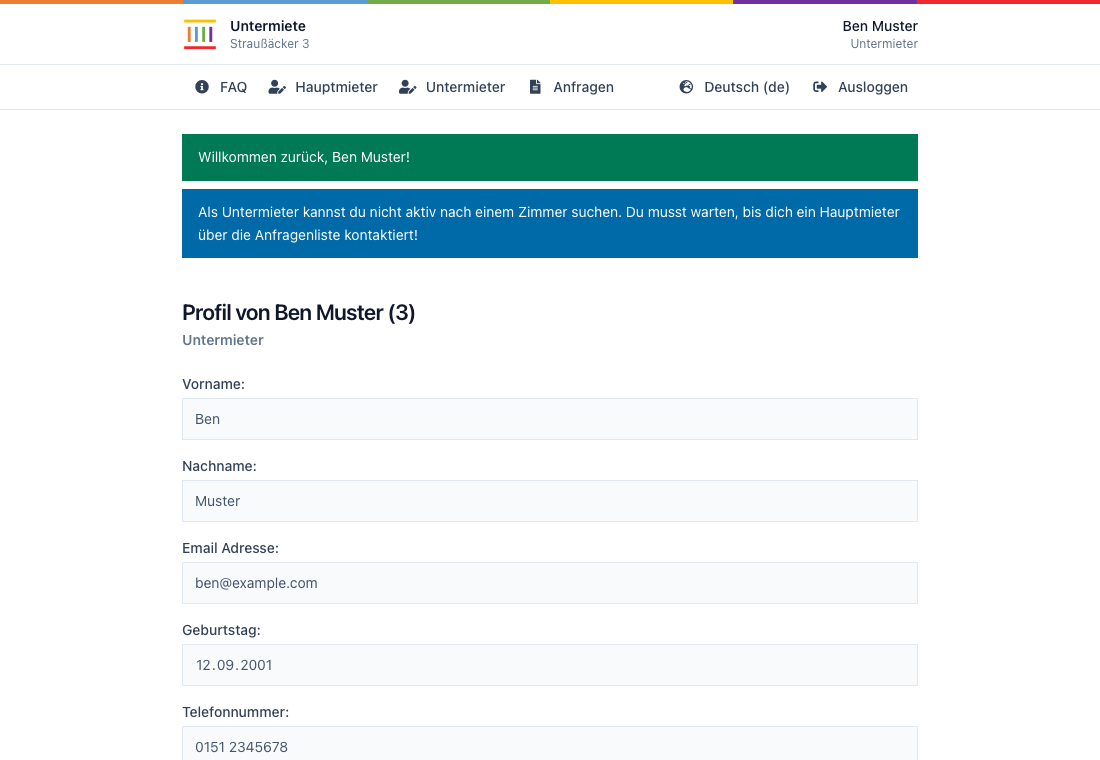
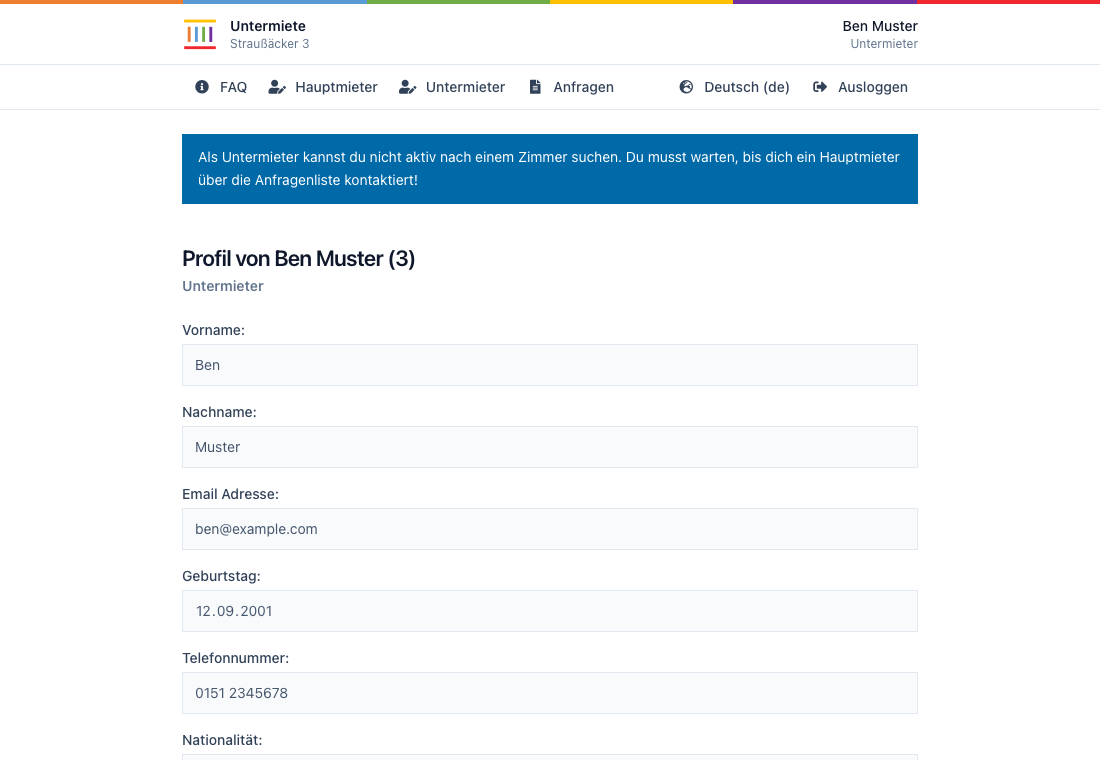
docs: README rework (Deployment holds installation, release and migration; Operations only day-2 topics; stale database and test notes replaced; SSH notes and mobile screenshot dropped), screenshots refreshed

Changed region(s): [[0.1545, 0.1513, 0.8345, 0.4539], [0.1545, 0.4842, 0.2782, 0.9987]]

diff --git a/README.md b/README.md
@@ -20,14 +20,11 @@ Django app for administrating the subtenancy for the Straussi3.
 - [Deployment](#deployment)
   - [Docker](#docker)
   - [Reverse Proxy](#reverse-proxy)
-  - [Migrations](#migrations)
   - [Environment](#environment)
-- [Operations](#operations)
-  - [Server](#server)
-  - [SSH](#ssh)
   - [Installation](#installation)
   - [Release](#release)
   - [Migration](#migration)
+- [Operations](#operations)
   - [Backups](#backups)
   - [Restore](#restore)
   - [Emails](#emails)
@@ -42,8 +39,6 @@ Django app for administrating the subtenancy for the Straussi3.
 | ![Start page](docs/screenshots/index.png) | ![Registration](docs/screenshots/register.png) |
 | ![Request list](docs/screenshots/requests.png) | ![Profile](docs/screenshots/profile.png) |
 | ![Contract form](docs/screenshots/contract.png) | ![Contract](docs/screenshots/contract-view.png) |
-
-<img src="docs/screenshots/mobile.png" alt="Mobile" width="260">
 
 ## Development
 
@@ -69,10 +64,11 @@ End-to-end tests drive a real browser (Playwright) against Django's live test se
 ```
 pip install -r requirements-dev.txt
 playwright install chromium
-SUBTENANCY_DB_PORT=5433 pytest
+pytest
 ```
 
-They run in GitHub Actions on every pull request, see [e2e.yml](/.github/workflows/e2e.yml).
+pytest-django creates a throwaway `test_subtenancy` database on the configured server.
+The tests run in GitHub Actions on every pull request, see [e2e.yml](/.github/workflows/e2e.yml).
 
 ### CSS
 
@@ -105,24 +101,15 @@ The command is idempotent; `init_database`, the container entrypoint and [config
 
 ### Database
 
-The database is not seeded.
-You may import a production database backup.
-Therefore, download the backup, extract it, and adjust the following:
-
-1. migrate `djangouser` to `"default"`
-2. migrate `postgres` to `"default"`
-3. migrate `COPY` to `\copy`
-4. remove any `$$PATH$$`
-
-Then import the backup as follows
+The database is not seeded. To work with production data, fetch a backup archive (see [Backups](#backups)) and
+restore it into an empty local database; the dump is in pg_dump's tar format.
 
 ```
-psql -h localhost -U default -d subtenancy -f restore.sql
+tar -xzf subtenancy_backup_<timestamp>.tar.gz
+dropdb -h localhost -U default subtenancy && createdb -h localhost -U default subtenancy
+pg_restore -h localhost -U default -d subtenancy --no-owner --no-privileges database.tar
+tar -xf contracts.tar -C contracts/contracts
 ```
-
-To create the first superuser use a SQL command.
-`python manage.py createsuperuser` will not work since the user model is not the original one.
-Further users can be created in the admin.
 
 ### Schema
 
@@ -197,9 +184,11 @@ Contract PDFs are stored on disk as `contracts/contracts/contract_<id>_version_<
 
 ## Deployment
 
+The production system runs on a server hosted by Selfnet, as a Docker image next to a PostgreSQL container.
+
 ### Docker
 
-The app runs as a Docker image built from the [Dockerfile](/Dockerfile) next to a PostgreSQL container, see [docker-compose.yaml](/docker-compose.yaml).
+The image is built from the [Dockerfile](/Dockerfile), the stack is [docker-compose.yaml](/docker-compose.yaml).
 Configuration is read from `/etc/subtenancy/config/backend` and `/etc/subtenancy/config/database`.
 Contract PDFs are stored in `/etc/subtenancy/contracts`, the database in `/etc/subtenancy/database`.
 
@@ -213,10 +202,6 @@ The app listens on `127.0.0.1:8000` only.
 A reverse proxy in front terminates TLS and must set `X-Forwarded-Proto` and `X-Forwarded-For`.
 Set `SUBTENANCY_SECURE_PROXY_SSL_HEADER=HTTP_X_FORWARDED_PROTO,https` and `SUBTENANCY_TRUST_X_FORWARDED_FOR=1` accordingly.
 
-### Migrations
-
-Set `SUBTENANCY_ENABLE_MIGRATIONS=1` to run `python manage.py migrate` and `sync_groups` on container start.
-
 ### Environment
 
 | Environment Variable                    | Default Value        | Description                                                      |
@@ -224,7 +209,7 @@ Set `SUBTENANCY_ENABLE_MIGRATIONS=1` to run `python manage.py migrate` and `sync
 | `SUBTENANCY_SECRET_KEY`                 |                      | Django secret key (must be set for production).                  |
 | `SUBTENANCY_DEBUG`                      | `'0'`                | Enables debug mode if set to `'1'`.                              |
 | `SUBTENANCY_ALLOWED_HOSTS`              | `'localhost'`        | Comma-separated list of allowed hosts.                           |
-| `SUBTENANCY_ORIGIN`                     | `'http://localhost'` | Used for setting request origin (e.g. for CORS).                 |
+| `SUBTENANCY_ORIGIN`                     | `'http://localhost'` | Public URL of the site, used for links printed by commands.      |
 | `SUBTENANCY_EMAIL_HOST`                 |                      | Email server hostname or IP address.                             |
 | `SUBTENANCY_EMAIL_PORT`                 | `587`                | Email server port.                                               |
 | `SUBTENANCY_EMAIL_HOST_USER`            |                      | Email login username.                                            |
@@ -240,26 +225,9 @@ Set `SUBTENANCY_ENABLE_MIGRATIONS=1` to run `python manage.py migrate` and `sync
 | `SUBTENANCY_SECURE_PROXY_SSL_HEADER`    |                      | Header and value tuple for SSL offloading (parsed into a tuple). |
 | `SUBTENANCY_SESSION_COOKIE_SECURE`      | `'1'`                | Require HTTPS for session cookie.                                |
 | `SUBTENANCY_SESSION_CSRF_COOKIE_SECURE` | `'1'`                | Require HTTPS for CSRF cookie.                                   |
-| `SUBTENANCY_ENABLE_MIGRATIONS`          | `'0'`                | Run database migrations.                                         |
-| `SUBTENANCY_USE_X_FORWARDED_HOST`       | `'0'`                |                                                                  |
+| `SUBTENANCY_ENABLE_MIGRATIONS`          | `'0'`                | Run `migrate` and `sync_groups` on container start.              |
+| `SUBTENANCY_USE_X_FORWARDED_HOST`       | `'0'`                | Take the host from `X-Forwarded-Host` (Django `USE_X_FORWARDED_HOST`). |
 | `SUBTENANCY_TRUST_X_FORWARDED_FOR`      | `'0'`                | Use the first `X-Forwarded-For` address as client IP for the login rate limit. Enable only behind a reverse proxy that sets this header. |
-
-## Operations
-
-### Server
-
-The production system is deployed on a server hosted on Selfnet.
-
-### SSH
-
-You may add the following entry to your `.ssh/config`.
-
-```
-Host untermiete
-    hostname untermiete.straussi3.de
-    identityfile ~/.ssh/id_rsa
-    user str3
-```
 
 ### Installation
 
@@ -301,6 +269,8 @@ config/deploy.sh v2.1.0                                   # server: checkout, bu
    drop `SUBTENANCY_CLEAN_DATABASE_WRITE`.
 3. Start the new version: fresh clone (the history was rewritten), `config/deploy.sh v2.0.0`.
 4. Install the [cronjob](/config/cronjob).
+
+## Operations
 
 ### Backups
 
